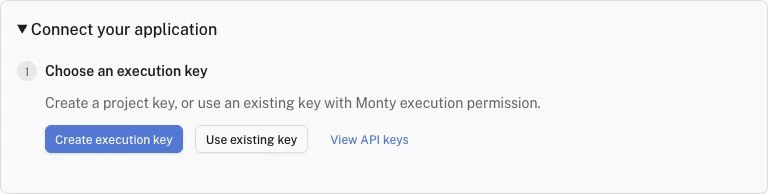
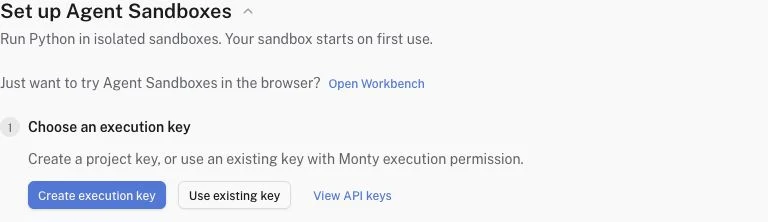
docs: update sandbox onboarding, storage quotas, and call inspection

diff --git a/docs/agent-sandboxes/inspect.md b/docs/agent-sandboxes/inspect.md
@@ -50,17 +50,39 @@ Select **Open in Live view** in the code dialog, or **Open session in Live view*
 A span is one unit of work: a single operation, with a name, a start, and a duration.
 Expand the session to inspect its code runs and related calls.
 
+## Step through function calls
+
+Select a **run code** span in Live view, then open its **Code** tab.
+For a run with recorded function calls, **Source** shows the Python code and a timeline of those calls.
+
+1. Select **Step over** to move to the next recorded call, or **Step back** to return to the previous one.
+2. Read **Call attributes** for the function, arguments, duration, and source location under **Called from**.
+3. Read **Return value** for the selected call's result.
+
+The source highlights the selected call and shows its return value beside the expression.
+The trace list highlights the same call while the **run code** span stays selected.
+You can also choose a call with the **Run timeline** slider or a source gutter marker.
+
+<img src="/logfire/images/guide/agent-sandboxes/call-stepper.webp" alt="Code tab on the second get_weather call, with New York as the argument, its source highlighted, and a return value of 24 degrees Celsius" width="838" height="560" loading="lazy" />
+
+*Two calls on the same source line have separate arguments, return values, and timings.*
+
+Scroll below the call inspector to read **Result** for the whole run and **Arguments** for its inputs.
+These differ from the selected function call's arguments and return value.
+Printed text appears in related **print stdout** records in the trace list.
+
 ## Verify
 
 Check that the session and recorded source match the example you ran.
 Open it in Live view. Confirm that its code runs and related calls match the source shown in the code dialog.
+For a run with several function calls, step between them and check that their arguments and return values change.
 
 ## Troubleshooting
 
 - **The overview is empty.** Widen the time range, check the project and filters, then refresh. Locally instrumented Monty activity appears in Live view but is outside this hosted overview.
 - **View code is unavailable or source is missing.** The selected window may lack a session record or source-bearing code runs. Widen it and inspect the related activity in Live view.
 - **A row says Activity without session details.** The project received activity without matching session details in this window. Open Live view to inspect the records that are available.
-- **A refresh fails.** Use **Retry** and check any warning about stale results before you rely on the displayed counts.
+- **A call is missing from the timeline.** Load more spans in the trace list. The inspector uses the calls that the list has loaded. A `+` after the call count means more calls may exist.
 
 ## Next steps
 

diff --git a/docs/agent-sandboxes/python.md b/docs/agent-sandboxes/python.md
@@ -15,19 +15,37 @@ You check out a session, send it code, and get the result back.
 
 ## Before you start
 
+You need [access to Agent Sandboxes](index.md) in your organization.
+
+### Enable Agent Sandboxes
+
 First, open **AI Optimization** > **Agent Sandboxes** in your project.
 If you see **Enable Agent Sandboxes**, ask a project manager to select it.
 An execution key does not enable the project by itself.
 
+For a new project, you can also start from product onboarding:
+
+1. Choose **Me** or **My team** under **Who are you setting up Logfire for?**
+2. Select **Use Agent Sandboxes** under **What do you want to do first?**
+
+<img src="/logfire/images/guide/agent-sandboxes/onboarding-sandboxes.webp" alt="Product onboarding with Use Agent Sandboxes among the setup choices" width="672" height="490" loading="lazy" />
+
+Logfire enables Agent Sandboxes for the project, adds a sidebar favorite, and opens **Setup**.
+This choice does not create an execution key or run code.
+Your account still needs permission to enable the project.
+The organization's enabled-project limit also applies.
+
+### Get an execution key
+
 You also need a Logfire API key with permission to run code in your project's agent sandboxes
 (`project:execute_agent_sandboxes`):
 
-1. Open your project in Logfire.
-2. Open **AI Optimization** > **Agent Sandboxes**. Select **Setup**, expand **Connect your application**, and select **Create execution key**.
+1. Open **AI Optimization** > **Agent Sandboxes** and select **Setup**.
+2. Under **Choose an execution key**, select **Create execution key**.
 3. Copy the key.
    It won't be shown again.
 
-<img src="/logfire/images/guide/agent-sandboxes/connect-key.webp" alt="Connect your application expanded in Setup with Create execution key, Use existing key, and View API keys" width="768" height="194" loading="lazy" />
+<img src="/logfire/images/guide/agent-sandboxes/connect-key.webp" alt="Setup with a Workbench link and the Choose an execution key step showing key creation and existing-key options" width="768" height="222" loading="lazy" />
 
 *The setup page offers key creation or use of an existing key.*
 

diff --git a/docs/agent-sandboxes/snapshots.md b/docs/agent-sandboxes/snapshots.md
@@ -29,7 +29,7 @@ Open **AI Optimization** > **Agent Sandboxes** > **Snapshots**.
 Search and sorting apply across the project inventory, including snapshots on other pages.
 The list shows each snapshot's size, creation time, and expiry time.
 
-<img src="/logfire/images/guide/agent-sandboxes/snapshots.webp" alt="Snapshots tab with search, status and sort controls, organization storage, row selection, and Open in Workbench actions" width="1160" height="590" loading="lazy" />
+<img src="/logfire/images/guide/agent-sandboxes/snapshots.webp" alt="Snapshots tab with expanded Project storage, project snapshot counts, search and sort controls, and Open in Workbench actions" width="1160" height="610" loading="lazy" />
 
 ## Open saved state in the Workbench
 
@@ -54,12 +54,14 @@ To delete several, select their checkboxes and choose **Delete selected**.
 Review the confirmation before you delete them.
 
 Deletion can show **Cleanup pending** until Logfire removes the stored objects.
-The organization storage count and bytes decrease after cleanup finishes.
+The project's snapshot count and stored bytes decrease after cleanup finishes.
 Pending uploads also count toward storage.
 If a bulk deletion partly fails, retry only the snapshots that still show a failure.
 
-The **Organization storage** summary shows the plan allowance and object count across the organization.
-Open it to inspect the enforced limit when it differs from the plan allowance.
+The **Project storage** summary shows this project's plan allowance and snapshot count.
+Open it to inspect the current service limit when it differs from the plan allowance.
+Each project has its own byte and snapshot-count limits.
+Snapshots in another project do not use this project's allowance.
 
 ## Verify
 

diff --git a/docs/agent-sandboxes/limits.md b/docs/agent-sandboxes/limits.md
@@ -64,8 +64,9 @@ counts toward the processing limit. Do heavy computation in your own functions, 
 In practice, a script can hold a few thousand rows of tool results at a time. A test with 5,000 rows of four short
 fields stayed inside the limit. 20,000 rows did not.
 
-Saved sessions and snapshots are kept for 7 days. They count toward your organization's snapshot storage limit.
+Saved sessions and snapshots are kept for 7 days. They count toward your project's snapshot storage limit.
 Open [Snapshots](snapshots.md) to see the plan allowance, the enforced limit if it differs, and the stored object count.
+The byte and snapshot-count limits apply separately to each project.
 Pending uploads and objects awaiting cleanup also count until cleanup finishes.
 Use `checkout(ephemeral=True)` for sessions that nothing will load again. See [Persist, resume, and fork sessions](sessions.md).
 

diff --git a/docs/agent-sandboxes/index.md b/docs/agent-sandboxes/index.md
@@ -104,6 +104,7 @@ agent](any-framework.md). For what scripts can run, see [What sandbox code can d
 ### Use the web UI
 
 Open **AI Optimization** > **Agent Sandboxes** in your project.
+For a new project, choose **Use Agent Sandboxes** during [product onboarding](python.md#enable-agent-sandboxes).
 If the project shows **Enable Agent Sandboxes**, ask a project manager to enable it.
 Sandboxes start on first use and shut down when idle.
 The project counts toward your organization's enabled-project limit until you disable it.

diff --git a/docs/agent-sandboxes/sessions.md b/docs/agent-sandboxes/sessions.md
@@ -57,7 +57,7 @@ The server saves a session's state, which Monty calls **parking** the session, i
   call.
 
 Saved sessions and snapshots are kept for 7 days after they're saved, then deleted.
-They count toward your organization's snapshot storage quota.
+They count toward your project's snapshot storage quota.
 
 !!! warning "Session state is stored by Logfire"
     The values your sandbox code creates, including anything computed from
